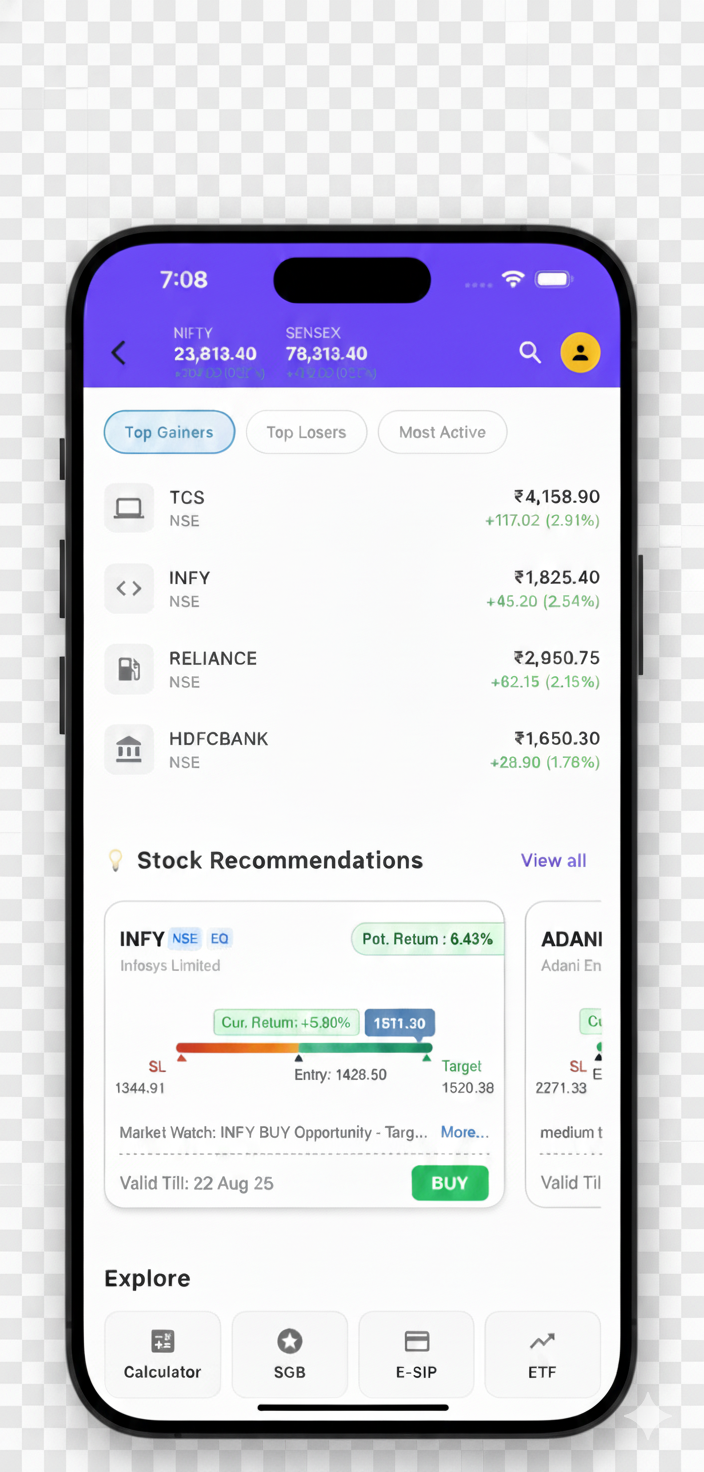
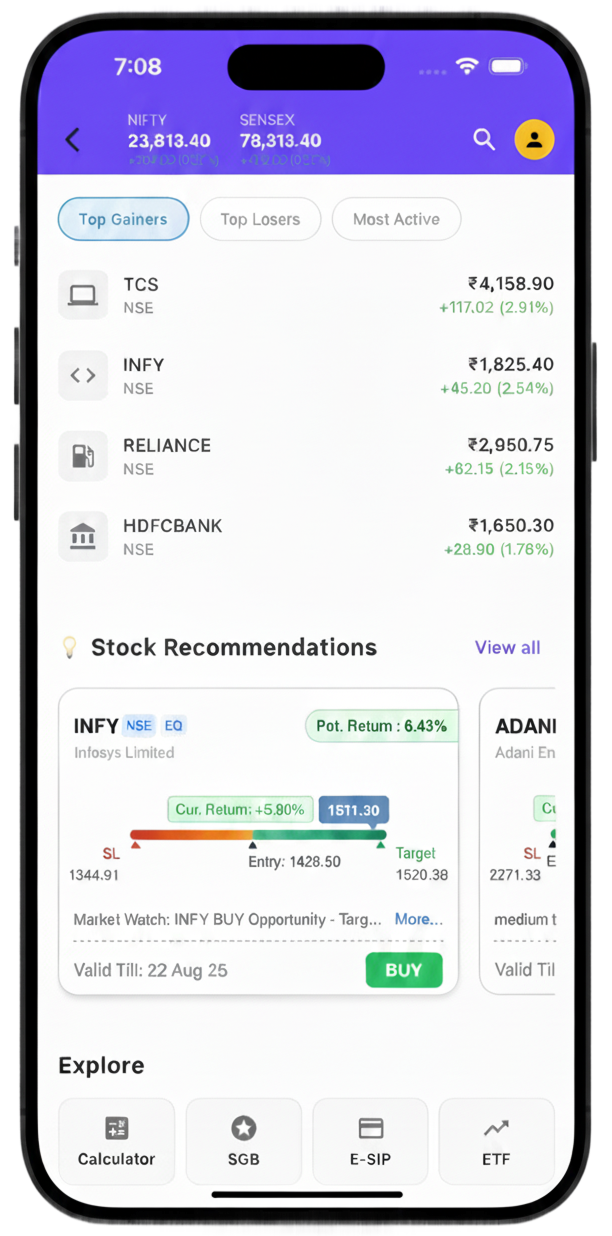
Update Native Mobile Experience visual

diff --git a/src/components/ProductSuite.tsx b/src/components/ProductSuite.tsx
@@ -163,7 +163,7 @@ export const ProductSuite = () => {
                             product.title === "Co-Analyst AI" 
                               ? { transform: "rotateY(-5deg) rotateZ(-2deg)", transformStyle: "preserve-3d", objectFit: "cover", objectPosition: "left center" }
                               : product.title === "Native Mobile Experience"
-                              ? { height: "80%", width: "auto", objectFit: "contain", objectPosition: "center", maxWidth: "none" }
+                              ? { height: "100%", width: "auto", objectFit: "contain", objectPosition: "center" }
                               : undefined
                           }
                         />
